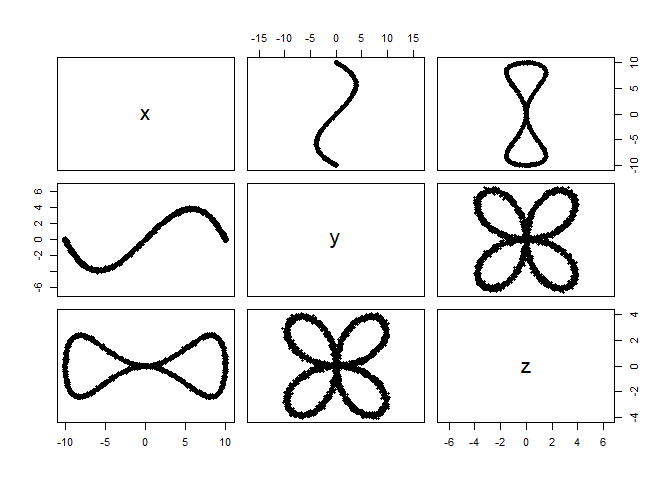
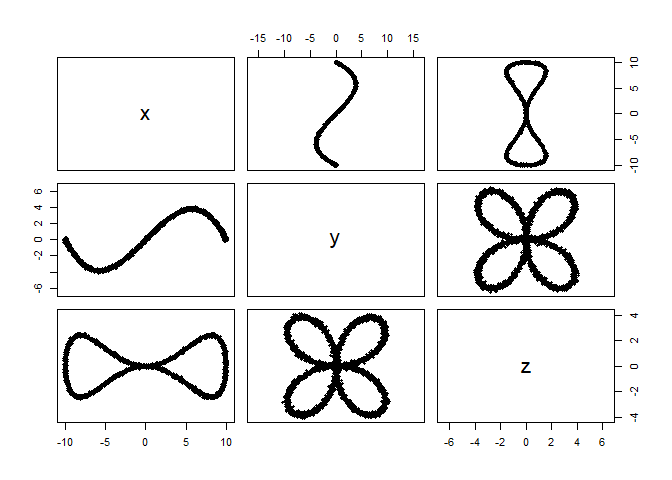
I totally know how parametric equations work

diff --git a/README.md b/README.md
@@ -110,7 +110,7 @@ Here is a point cloud $P$ formed by adding a bit of uniform noise to
 5000 points regularly sampled from the parametric curve
 
 ``` math
-\gamma(t) = \begin{cases}x = 10\sin(x)\\ y=10\sin(x)\cos^2(x)\\ z=10\sin^2(x)\cos(x) \end{cases}
+\gamma(t) = \begin{cases}x = 10\ \sin(t)\\ y=10\ \sin(t)\cos^2(t)\\ z=10\ \sin^2(t)\cos(t) \end{cases}
 ```
 
 <img src="README_files/figure-gfm/fig8-1.png" />
